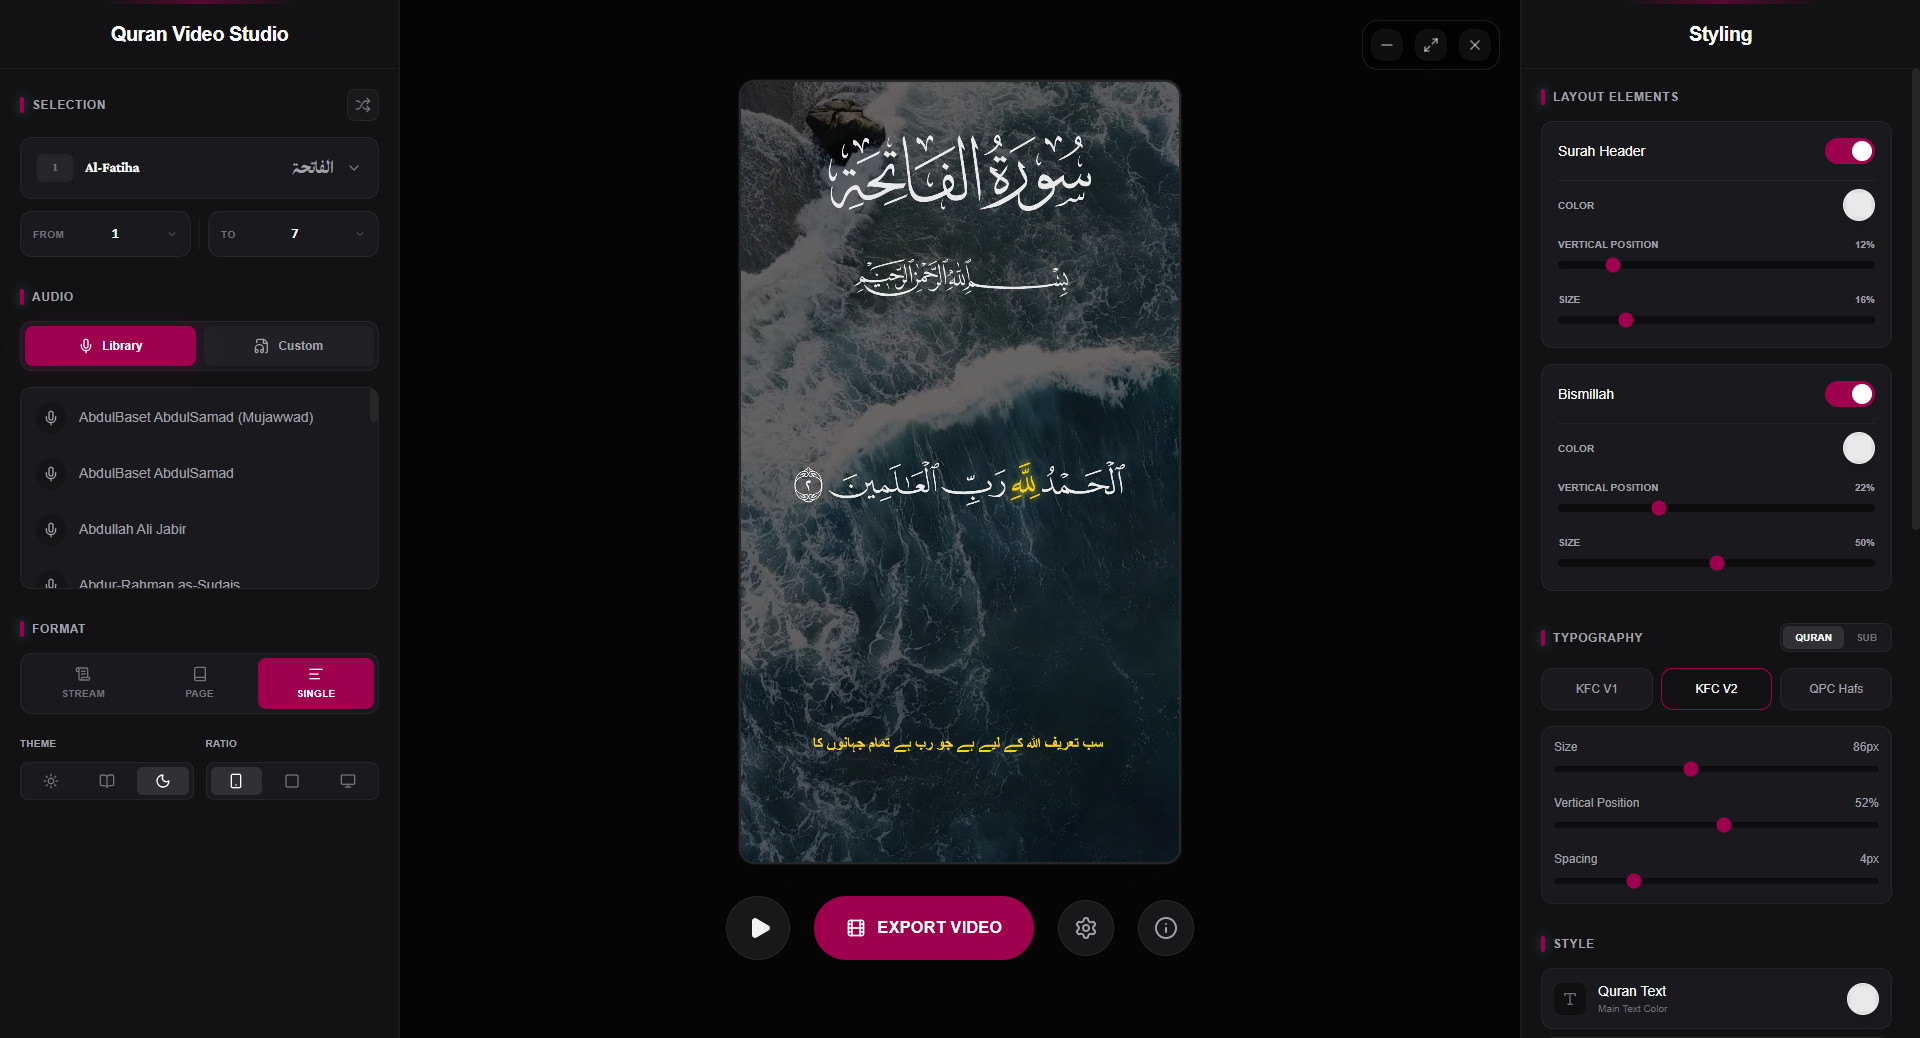
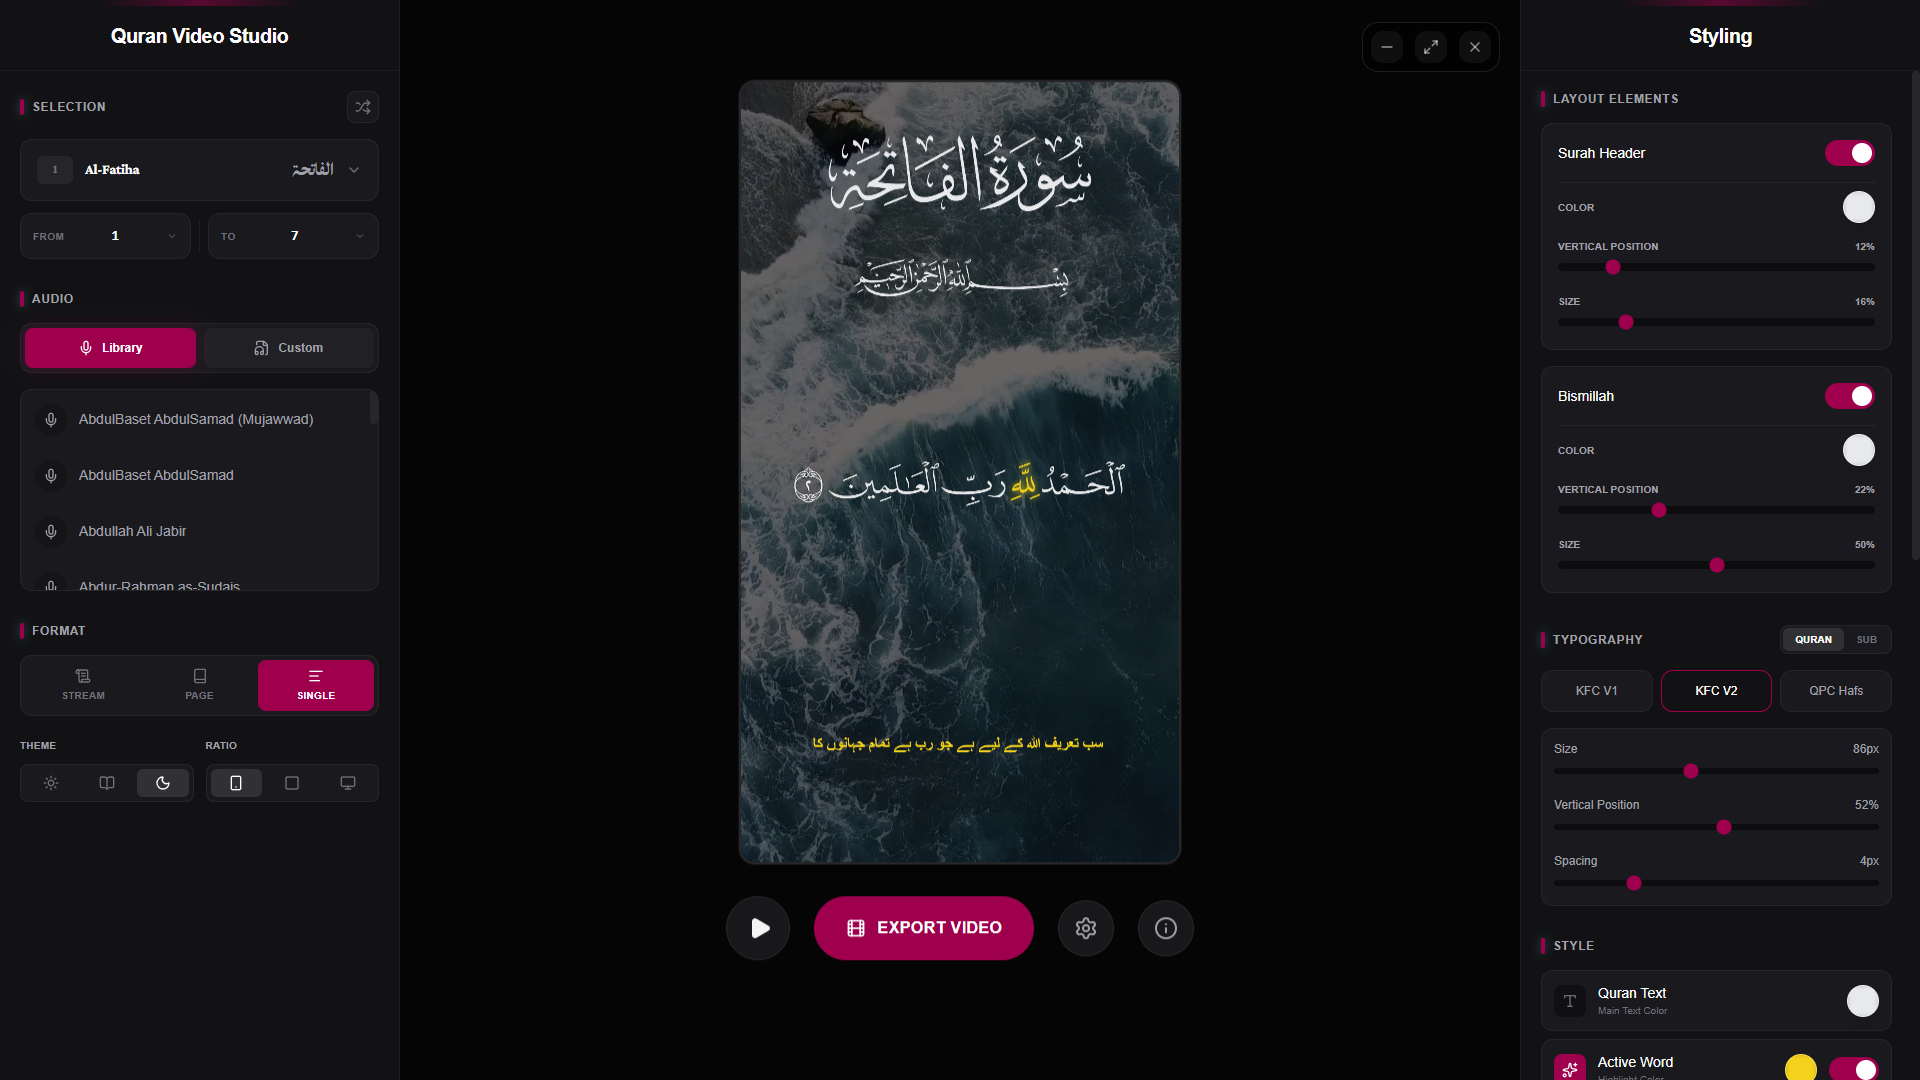
/

diff --git a/src/config/site.ts b/src/config/site.ts
@@ -22,7 +22,9 @@ export const AUTHOR_GITHUB = "https://github.com/DashingMZA";
 export const GITHUB_REPO = "https://github.com/DashingMZA/quran-studio";
 export const GITHUB_RELEASES = `${GITHUB_REPO}/releases`;
 export const GITHUB_LICENSE = `${GITHUB_REPO}/blob/master/LICENSE`;
-export const GITHUB_REPONAME = "DashingMZA/quran-studio";
+export const GITHUB_REPOURL = "DashingMZA/quran-studio";
+export const GITHUB_REPOOWNER = "DashingMZA";
+export const GITHUB_REPONAME = "quran-studio";
 
 // ---------- Support / Donations ----------
 export const SUPPORT_KOFI = "https://ko-fi.com/dashingmza";
@@ -80,16 +82,16 @@ export const DEFAULT_SEO = {
   oglocale: "en_US",
   oglocalealternate: "ur_PK",
   ogtype: "website",
-  ogupdatedtime: "2026-10-17T00:00:00Z",
-  ogimage: "/screenshots/quran-studio.png",
+  ogupdatedtime: "2026-10-18T00:00:00Z",
+  ogimage: `${SITE_URL}/screenshots/quran-studio1.png`,
   ogimagealt: "Quran Studio — Create Beautiful Quran Recitation Videos",
   ogimagetype: "image/png",
   ogimagewidth: "1920",
-  ogimageheight: "1038",
+  ogimageheight: "1080",
   twittercard: "summary_large_image",
   twittertitle: "Create and export professional Quran videos online",
   twitterdescription: "Quran Studio is a web and desktop-ready editor for creating Quran recitation videos. It combines Quran text, translations, timed recitation audio, typography controls, and visual backgrounds into an exportable MP4 canvas workflow.",
-  twitterimage: "/screenshots/quran-studio.png",
+  twitterimage: `${SITE_URL}/screenshots/quran-studio4.png`,
   twitterimagealt: "Quran Studio — Create Beautiful Quran Recitation Videos",
 };
 
